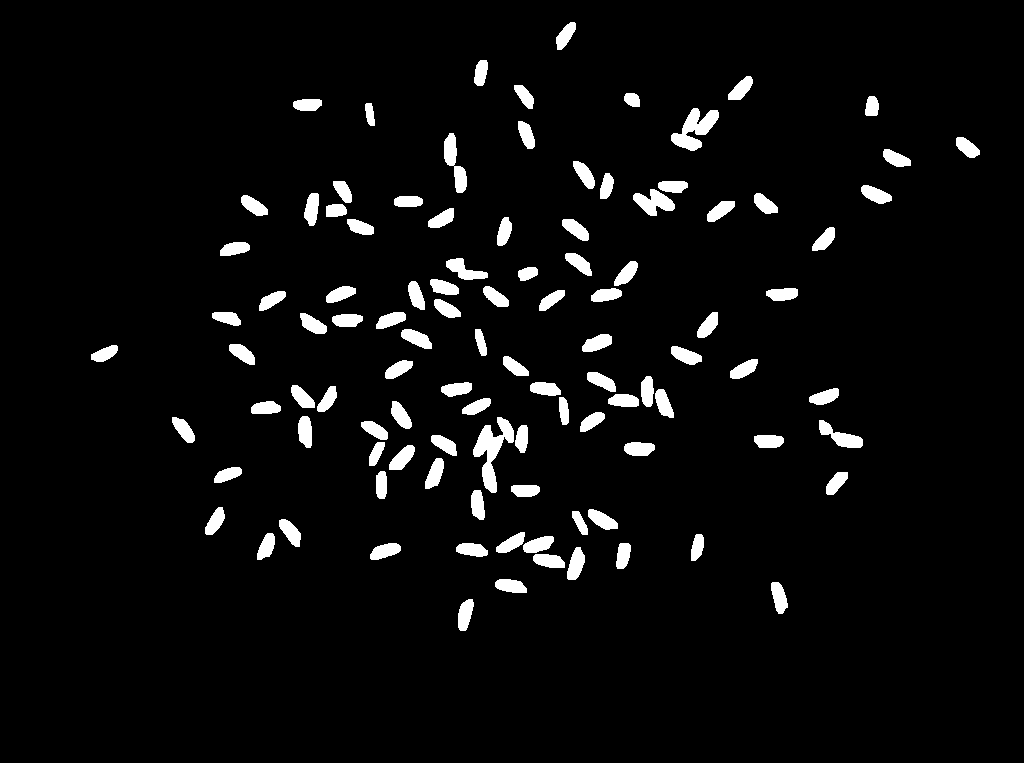
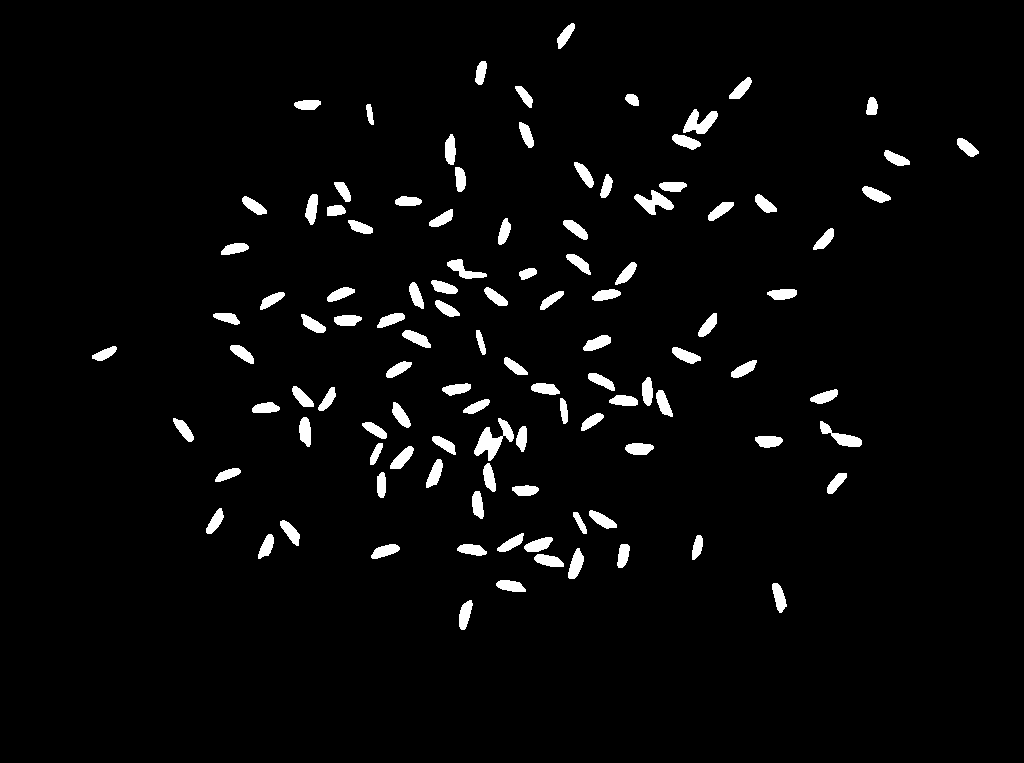
Count rice

diff --git a/main.py b/main.py
@@ -2,7 +2,6 @@ import sys
 import numpy as np
 import cv2
 
-
 INPUT_IMAGES = (
     ('60', '60.bmp'),
     ('82', '82.bmp'),
@@ -18,29 +17,36 @@ def main():
             print('Failed to open image. \n')
             sys.exit()
 
-        #img = img.astype (np.float32) / 255
         
         blur = cv2.bilateralFilter(img, d=-1, sigmaColor=50, sigmaSpace=3)
         
-        adaptativeThreshold = cv2.adaptiveThreshold(blur, C=-5, blockSize=33, maxValue=1, adaptiveMethod=cv2.ADAPTIVE_THRESH_GAUSSIAN_C, thresholdType=cv2.THRESH_BINARY)
+        adaptativeThreshold = cv2.adaptiveThreshold(blur, maxValue=1, adaptiveMethod=cv2.ADAPTIVE_THRESH_GAUSSIAN_C, thresholdType=cv2.THRESH_BINARY, blockSize=101, C=-27)
 
         otsuThreshold, globalThreshold = cv2.threshold(blur, thresh=0, maxval=1, type=cv2.THRESH_BINARY+cv2.THRESH_OTSU)
 
         mask = adaptativeThreshold * globalThreshold
 
         kernel = np.ones((3,3), np.float32)
-        mask_open = cv2.morphologyEx(mask, cv2.MORPH_OPEN, kernel, iterations=2)
-        #mask_close = cv2.morphologyEx(mask_open, cv2.MORPH_CLOSE, kernel, iterations=1)
-        #mask_dilated = cv2.morphologyEx(mask_close, cv2.MORPH_DILATE, kernel, iterations=1)
+        mask = cv2.morphologyEx(mask, cv2.MORPH_ERODE, kernel, iterations=2)
+        mask = cv2.morphologyEx(mask, cv2.MORPH_DILATE, kernel, iterations=1)
 
-        #masked_img = img * mask_dilated
-        #canny = cv2.Canny(blur, threshold1=0.5*otsuThreshold, threshold2=otsuThreshold, apertureSize=3)
+        n, labels, stats, _ = cv2.connectedComponentsWithStats(mask, connectivity=4)
 
-        #contours, hierarchy = cv2.findContours((hsv_oriented[..., 2]*255).astype(np.uint8), cv2.RETR_EXTERNAL, cv2.CHAIN_APPROX_NONE)
-        #cv2.drawContours(bgr_oriented, contours, -1, (0, 255, 0), 1)
+        blobs = []
+
+        for label in range(1, n):
+            blobs.append(stats[label, cv2.CC_STAT_AREA])
+
+        blobs.sort()
+
+        median = np.median(blobs)
         
-        cv2.imwrite(f'test{nome}.png', mask_open*255)
+        blobs = [round(blob/median) if blob > median else 1 for blob in blobs]
+
+        print(sum(blobs))
         
+        
+        cv2.imwrite(f'test{nome}.png', mask*255)
 
 if __name__ == '__main__':
     main()
